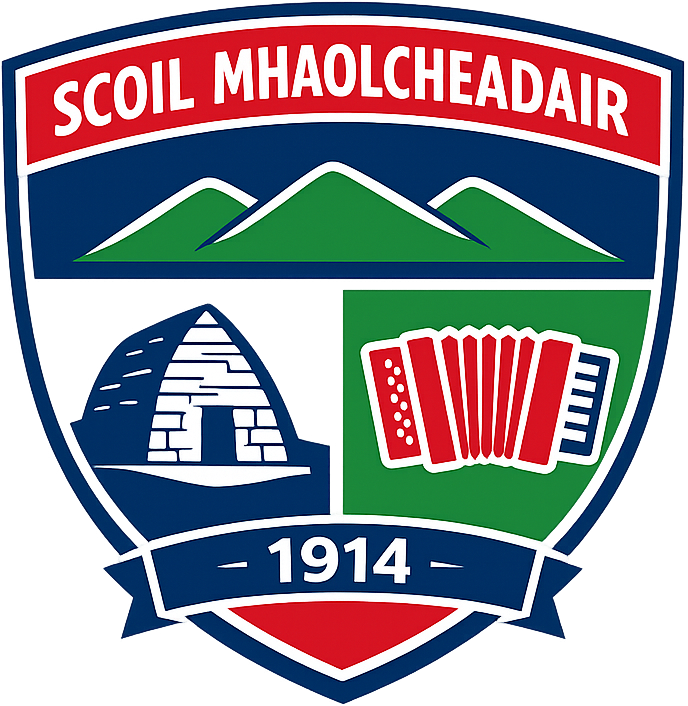
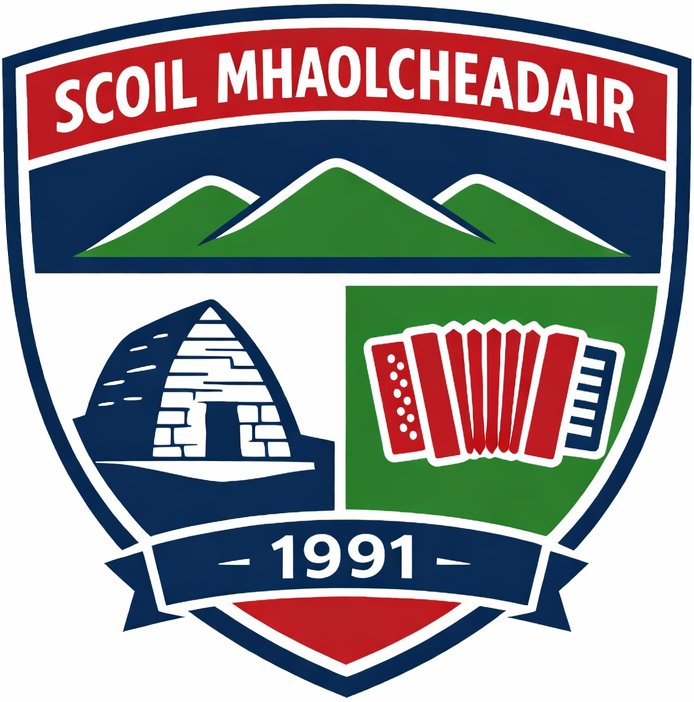
refined crest + year info

Changed region(s): [[0.0, 0.0, 1.0, 1.0], [0.1221, 0.5085, 0.1831, 0.5983], [0.4578, 0.6282, 0.4884, 0.6581]]

diff --git a/src/config/site.js b/src/config/site.js
@@ -13,7 +13,7 @@ export const siteConfig = {
   emailHref: "mailto:office@scoilmhaolcheadair.ie",
   website: "www.scoilmhaolcheadair.ie",
   websiteHref: "https://www.scoilmhaolcheadair.ie",
-  yearEstablished: 2009,
+  yearEstablished: 1991,
   logo,
   crest,
 };
